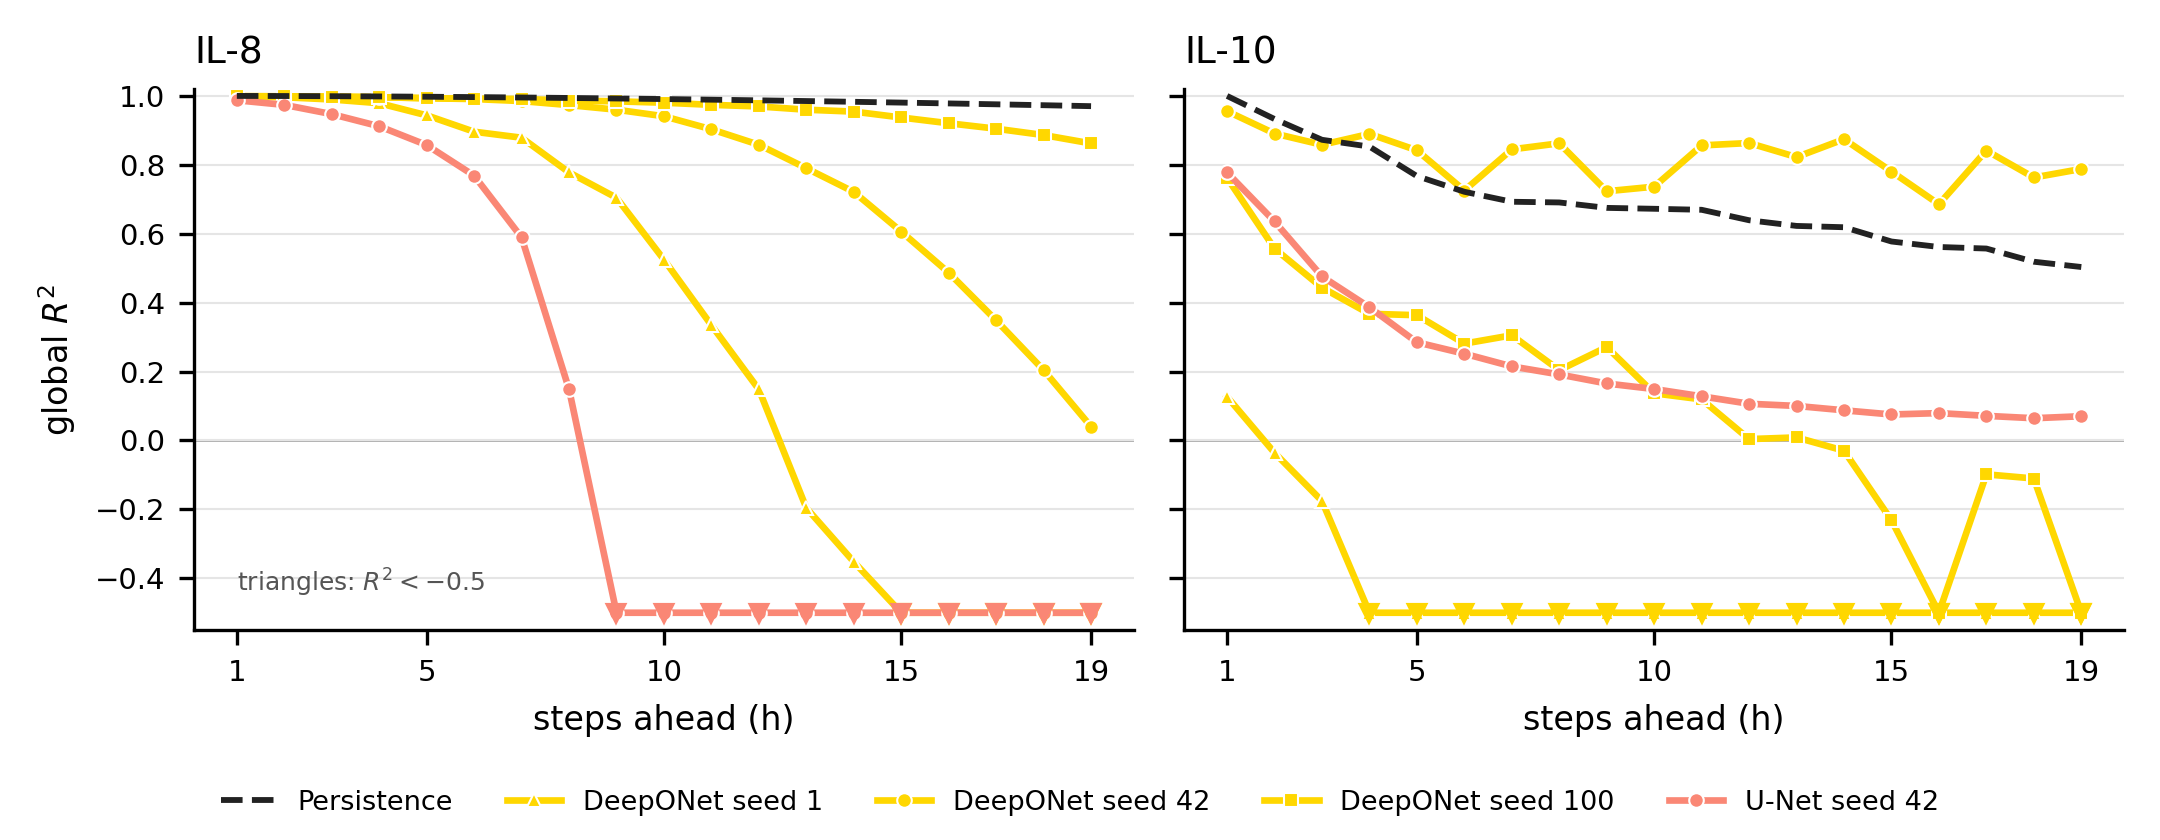
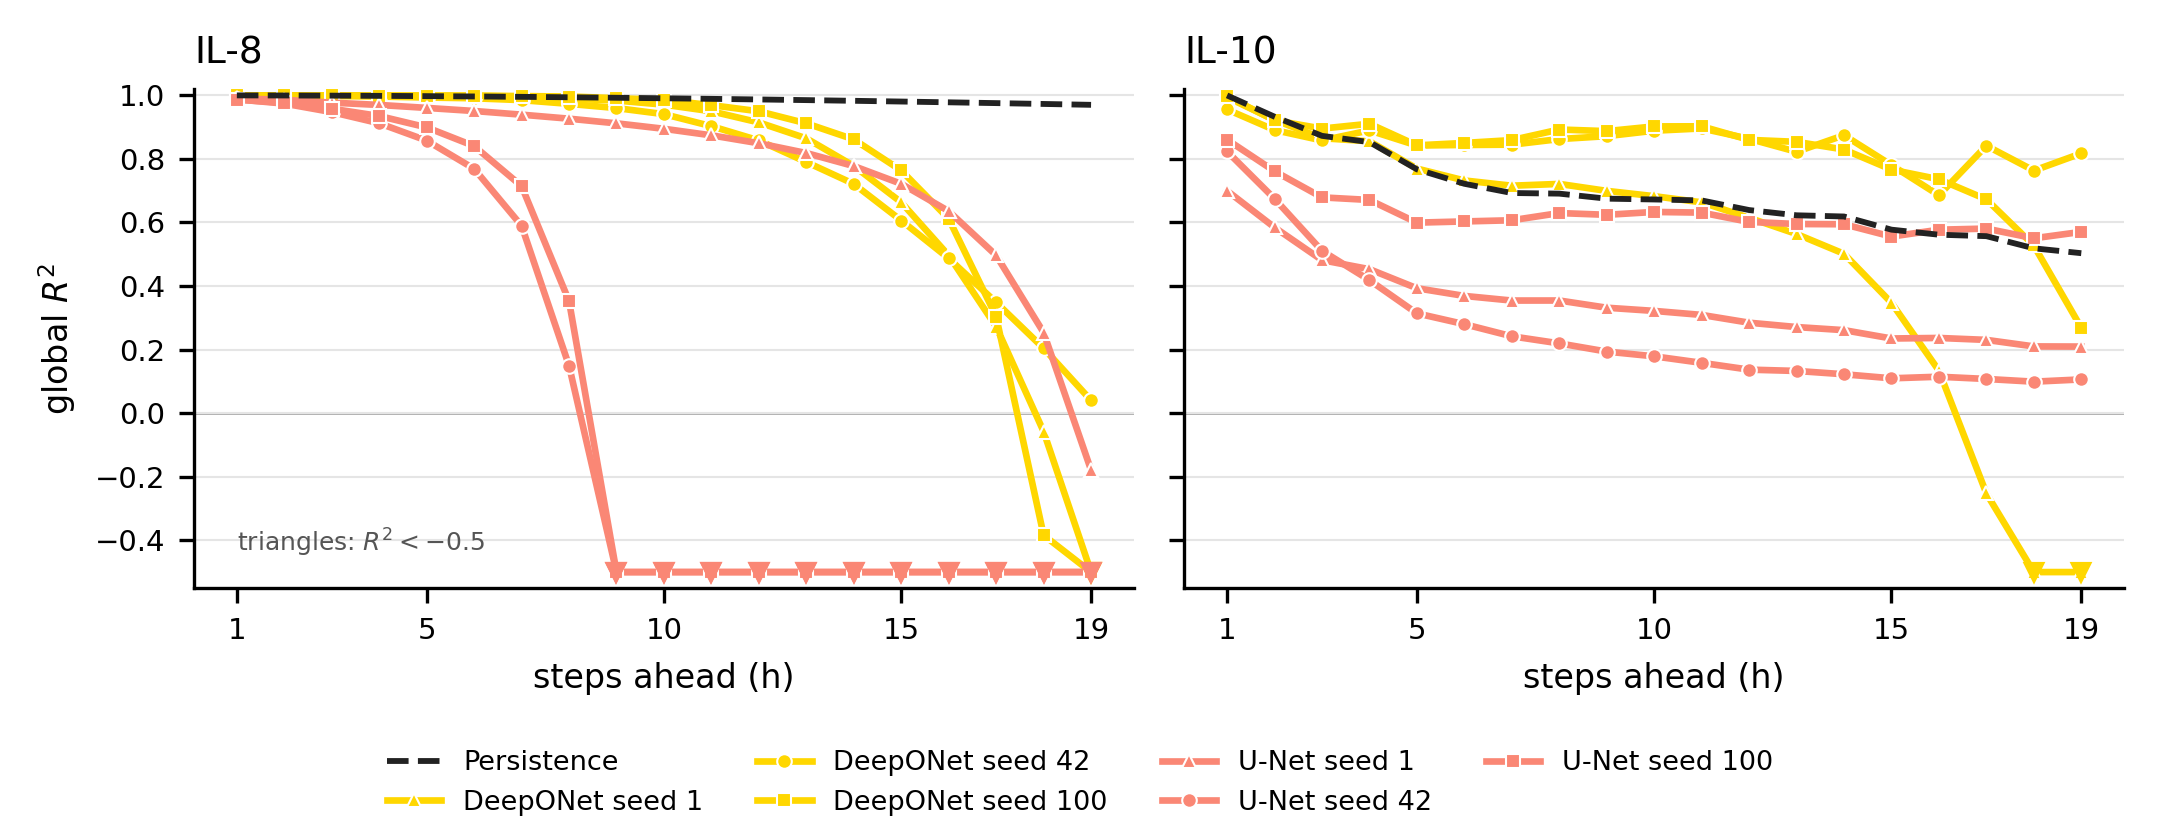
rollout figure and table, all seeds

Changed region(s): [[0.0, 0.0929, 0.9926, 0.9905], [0.5894, 0.5571, 0.6204, 0.65], [0.0, 0.3405, 0.031, 0.4333]]

diff --git a/scripts/rollout_summary.py b/scripts/rollout_summary.py
@@ -80,9 +80,9 @@ def main():
         ax.grid(axis="y", color="#e5e5e5", lw=0.5, zorder=0)
     axes[0].set_ylabel("global $R^2$")
     h, l = axes[0].get_legend_handles_labels()
-    fig.legend(h, l, loc="lower center", frameon=False, ncol=len(h), bbox_to_anchor=(0.5, 0.0))
+    fig.legend(h, l, loc="lower center", frameon=False, ncol=4, bbox_to_anchor=(0.5, 0.0))
     axes[0].text(1, Y_FLOOR + 0.04, f"triangles: $R^2 < {Y_FLOOR}$", fontsize=6, color="#555555", va="bottom")
-    fig.tight_layout(rect=[0, 0.08, 1, 1])
+    fig.tight_layout(rect=[0, 0.13, 1, 1])
     Path(a.figdir).mkdir(parents=True, exist_ok=True)
     out = Path(a.figdir) / "F6_rollout.png"; fig.savefig(out); print(f"wrote {out}")
 

diff --git a/models/rollout_3d/tab_rollout.tex b/models/rollout_3d/tab_rollout.tex
@@ -9,10 +9,12 @@
 \textbf{Predictor} & \textbf{early} & \textbf{late} & \textbf{early} & \textbf{late} \\
 \midrule
 Persistence & $0.996$ & $0.980$ & $0.781$ & $0.585$ \\
-DeepONet, seed 1 & $0.949$ & $0.565$ & $0.400$ & $0.138$ \\
+DeepONet, seed 1 & $0.994$ & $0.474$ & $0.790$ & $0.047$ \\
 DeepONet, seed 42 & $0.983$ & $0.547$ & $0.873$ & $0.816$ \\
-DeepONet, seed 100 & $0.994$ & $0.945$ & $0.369$ & $0.126$ \\
+DeepONet, seed 100 & $0.997$ & $0.254$ & $0.894$ & $0.712$ \\
+U-Net, seed 1 & $0.950$ & $0.579$ & $0.428$ & $0.250$ \\
 U-Net, seed 42 & $-0.094$ & $<-10$ & $0.373$ & $0.121$ \\
+U-Net, seed 100 & $-0.302$ & $<-10$ & $0.662$ & $0.584$ \\
 \bottomrule
 \end{tabular}
 \end{table}
